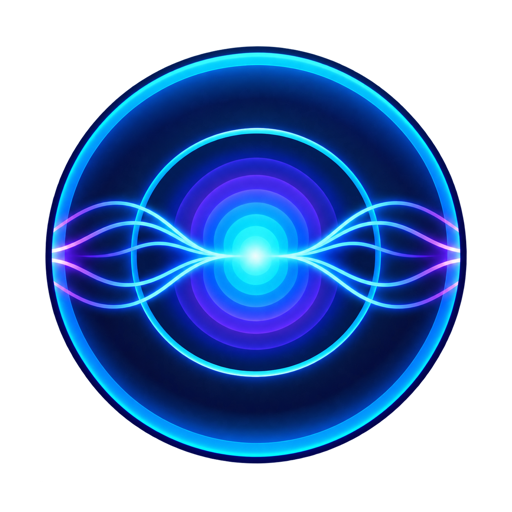
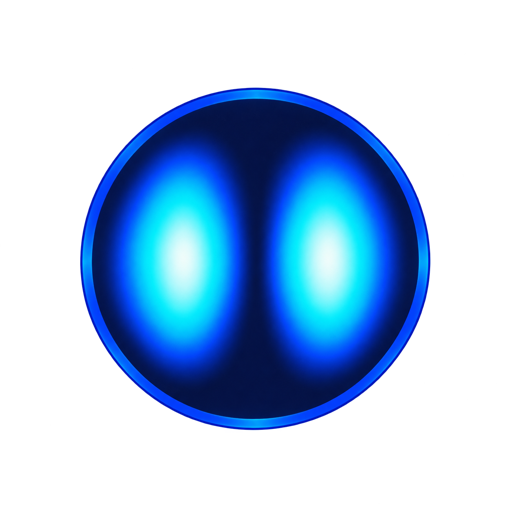
Refresh PyFiberModes branding

diff --git a/docs/source/_static/default.css b/docs/source/_static/default.css
@@ -32,3 +32,12 @@ div.highlight a {
 .bd-content img[alt="PyFiberModes logo"] {
   filter: drop-shadow(0 0.7rem 1rem rgb(20 217 255 / 20%));
 }
+
+.bd-header .navbar-brand img.logo__image {
+  filter: none !important;
+  width: 15rem !important;
+  max-width: 100% !important;
+  height: auto !important;
+  max-height: 5.5rem !important;
+  object-fit: contain;
+}

diff --git a/docs/source/conf.py b/docs/source/conf.py
@@ -26,10 +26,10 @@ globals().update(
         project="PyFiberModes",
         package="PyFiberModes",
         repository="MartinPdeS/PyFiberModes",
-        logo="_static/logo.svg",
-        favicon="_static/favicon.svg",
+        logo="_static/logo.png",
+        favicon="_static/favicon.png",
         gallery_sections=gallery_sections,
-        gallery_default_thumb="_static/favicon.png",
+        gallery_default_thumb="_static/thumbnail.png",
         gallery_options={"abort_on_example_error": True},
         logo_text="",
         autodoc_default_options={"members": True},

diff --git a/README.rst b/README.rst
@@ -1,4 +1,4 @@
-.. image:: https://raw.githubusercontent.com/MartinPdeS/PyFiberModes/master/docs/source/_static/logo.svg
+.. image:: https://raw.githubusercontent.com/MartinPdeS/PyFiberModes/master/docs/source/_static/logo.png
    :width: 620
    :align: center
    :alt: PyFiberModes logo

diff --git a/docs/source/index.rst b/docs/source/index.rst
@@ -1,6 +1,6 @@
 **Date**: |today|, **Version**: |version|
 
-.. image:: _static/logo.svg
+.. image:: _static/logo.png
    :width: 620
    :align: center
    :alt: PyFiberModes logo
